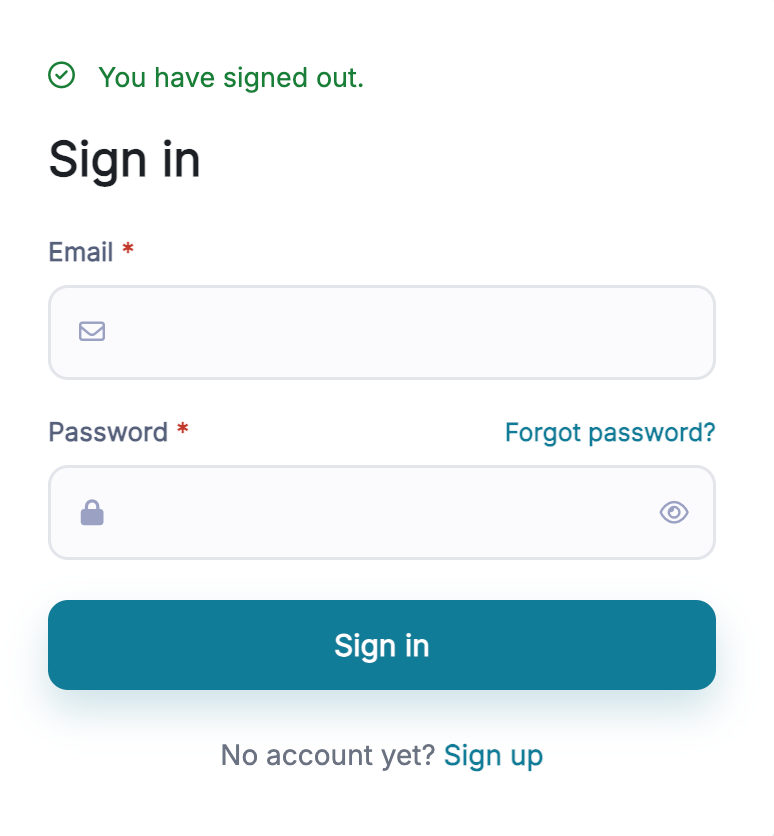
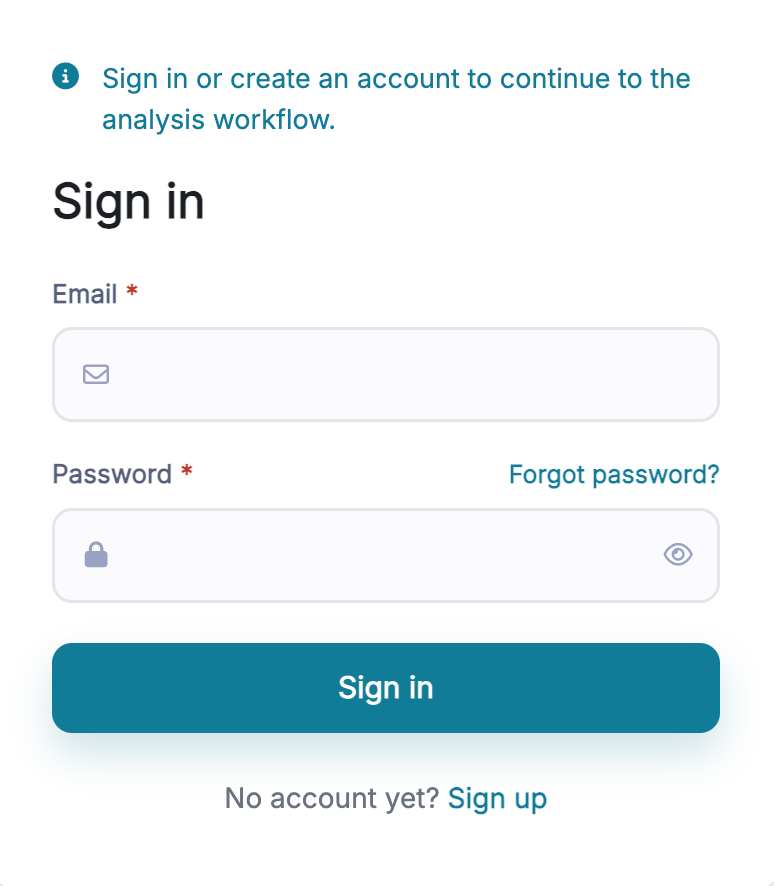
update

diff --git a/docs/11_data_preparation_shiny.html b/docs/11_data_preparation_shiny.html
@@ -520,7 +520,7 @@ Note
 <p>On the hosted deployment the analysis pages are protected. If authentication is enabled, clicking <strong>Get Started</strong> takes you to the <strong>Sign In</strong> page first; after signing in, the app returns to the page you were heading for.</p>
 <div class="quarto-figure quarto-figure-center">
 <figure class="figure">
-<p><img src="images/shinyapp_signin.png" class="img-fluid quarto-figure quarto-figure-center figure-img" width="600"></p>
+<p><img src="images/shinyapp_signin.png" class="img-fluid quarto-figure quarto-figure-center figure-img" width="300"></p>
 </figure>
 </div>
 </div>
